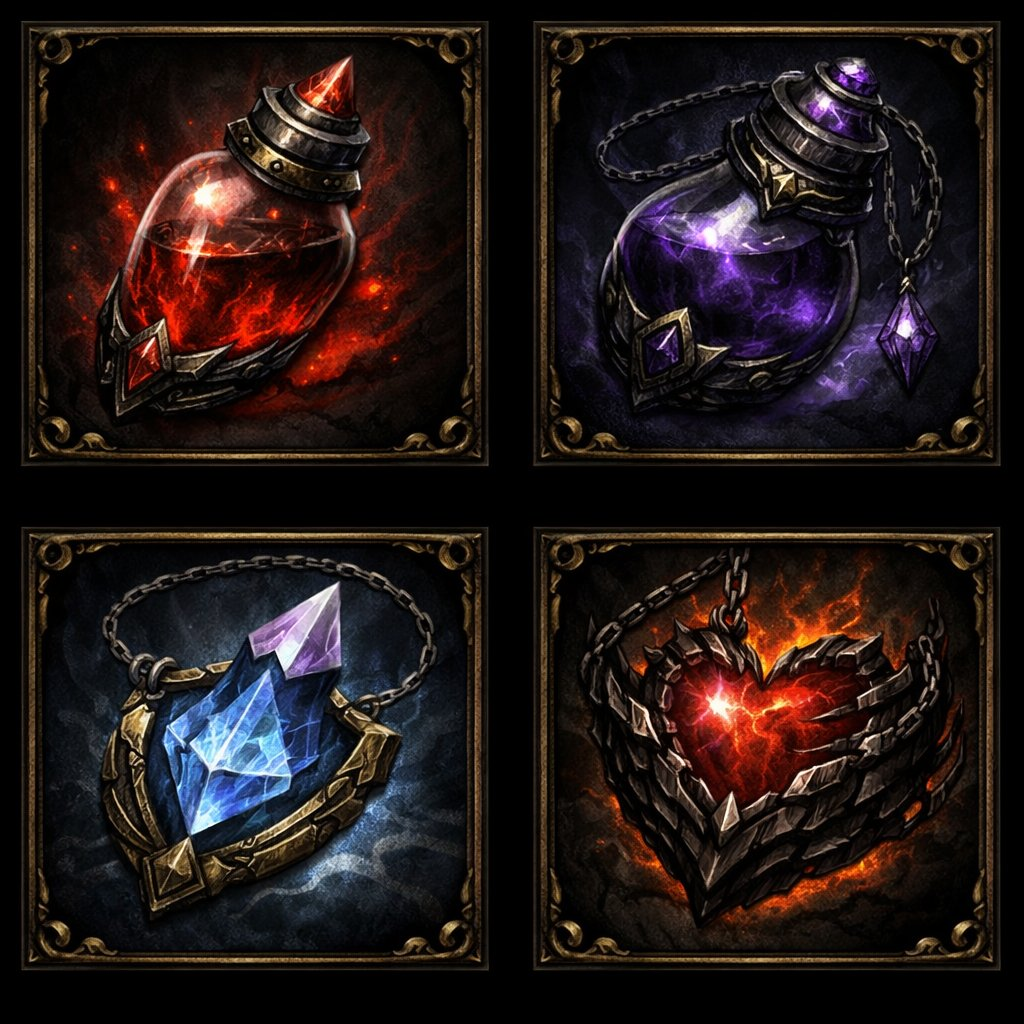
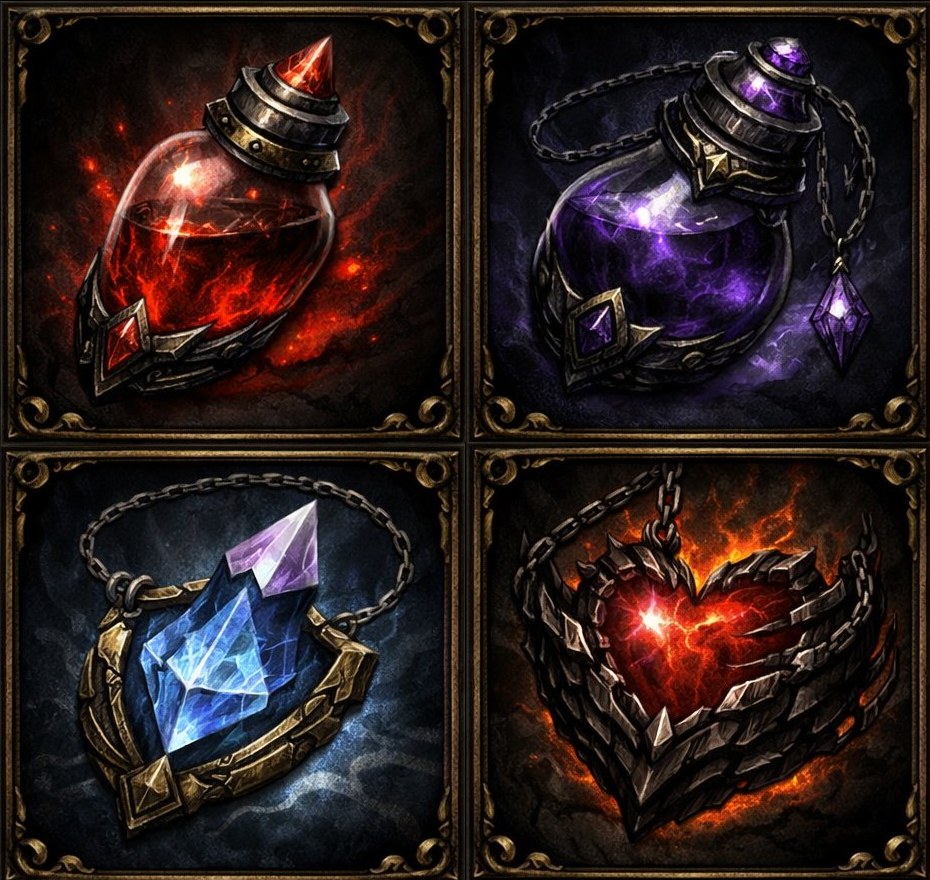
portraits added, adjusted

diff --git a/src/App.jsx b/src/App.jsx
@@ -24,19 +24,21 @@ const SHEETS = {
     zone3: "/realm-of-shadows/assets/images/zone3.png",
     zone4: "/realm-of-shadows/assets/images/zone4.png",
     newbosses: "/realm-of-shadows/assets/images/newbosses.png",
+    zone4extra: "/realm-of-shadows/assets/images/zone4_extra.png",
     equipment: "/realm-of-shadows/assets/images/equipment.png",
     extras: "/realm-of-shadows/assets/images/extras.png",
 };
 
 const SHEET_META = {
     classes: { cols: 3, rows: 2, w: 1024, h: 1024 },
-    zone1: { cols: 3, rows: 2, w: 1024, h: 1024 },
+    zone1: { cols: 3, rows: 2, w: 1019, h: 945 },
     zone2: { cols: 3, rows: 2, w: 1024, h: 1024 },
     zone3: { cols: 3, rows: 1, w: 1023, h: 926 },
     zone4: { cols: 2, rows: 2, w: 1024, h: 1024 },
     newbosses: { cols: 2, rows: 2, w: 1024, h: 1024 },
+    zone4extra: { cols: 2, rows: 1, w: 1535, h: 760 },
     equipment: { cols: 6, rows: 5, w: 1024, h: 1024 },
-    extras: { cols: 2, rows: 2, w: 1024, h: 1024 },
+    extras: { cols: 2, rows: 2, w: 930, h: 880 },
 };
 
 function Portrait({ sheetKey, col, row, displaySize = 56, radius = "50%", style = {}, glow = "#888", yOffset = 0, zoom = 1.0 }) {
@@ -99,6 +101,8 @@ function EnemyPortrait({ enemyId, size = 56, style = {} }) {
         "infernal_behemoth_raged": { sheetKey: "zone4", col: 1, row: 0 },
         "abyssal_overlord": { sheetKey: "zone4", col: 0, row: 1 },
         "doomreaper": { sheetKey: "zone4", col: 1, row: 1 },
+        "hellfire_imp": { sheetKey: "zone4extra", col: 0, row: 0, yOffset: 0.05 },
+        "ashen_knight": { sheetKey: "zone4extra", col: 1, row: 0, yOffset: 0.08 },
         "lord_threxil": { sheetKey: "newbosses", col: 0, row: 0, yOffset: 0.05, zoom: 1.6 },
         "aurelion":     { sheetKey: "newbosses", col: 1, row: 0, yOffset: 0.05, zoom: 1.6 },
         "vael_zyrr":    { sheetKey: "newbosses", col: 0, row: 1, yOffset: 0.08, zoom: 1.6 },
@@ -154,7 +158,7 @@ function ItemPortrait({ itemId, size = 32, style = {} }) {
         // extras sheet — square cells, no yOffset needed
         "bloodVial":    { col: 0, row: 0, sheetKey: "extras" },
         "veilShadows":  { col: 1, row: 0, sheetKey: "extras" },
-        "critRune":     { col: 0, row: 0, sheetKey: "extras" },
+        "critRune":     { col: 1, row: 0, sheetKey: "extras" },
         "arcaneSliver": { col: 0, row: 1, sheetKey: "extras" },
         "heartFallen":  { col: 1, row: 1, sheetKey: "extras" },
     };
